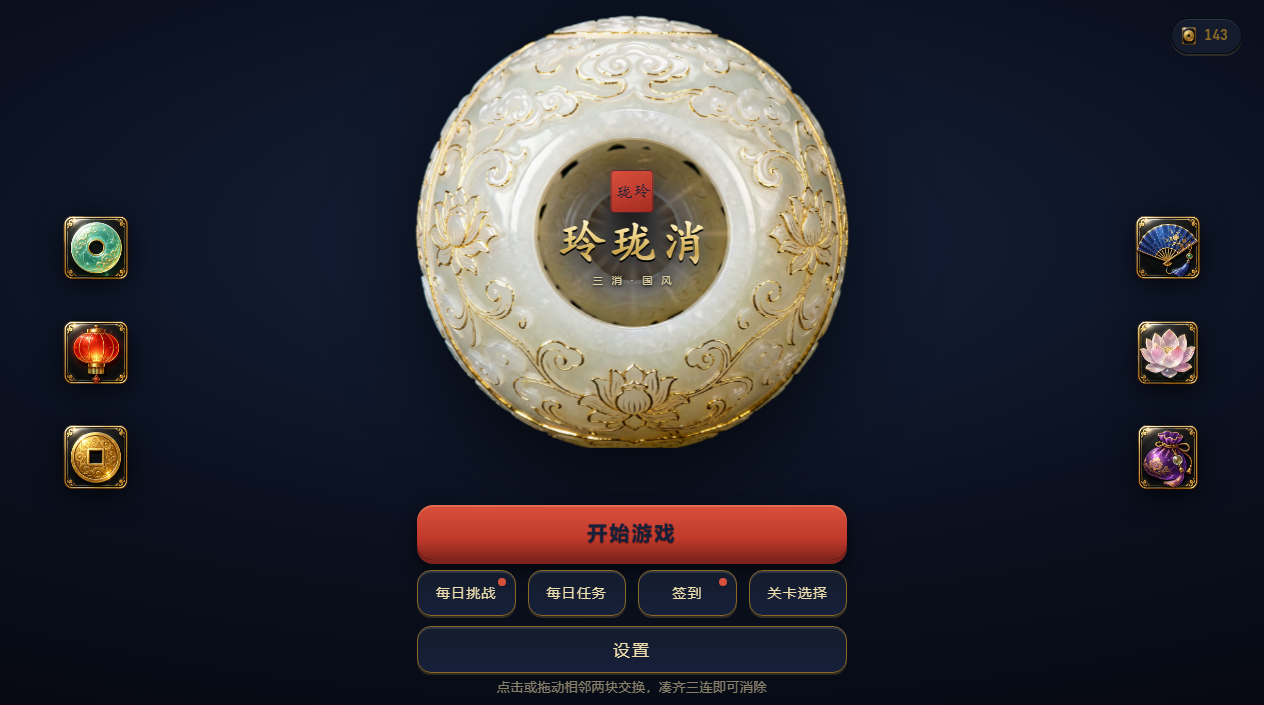
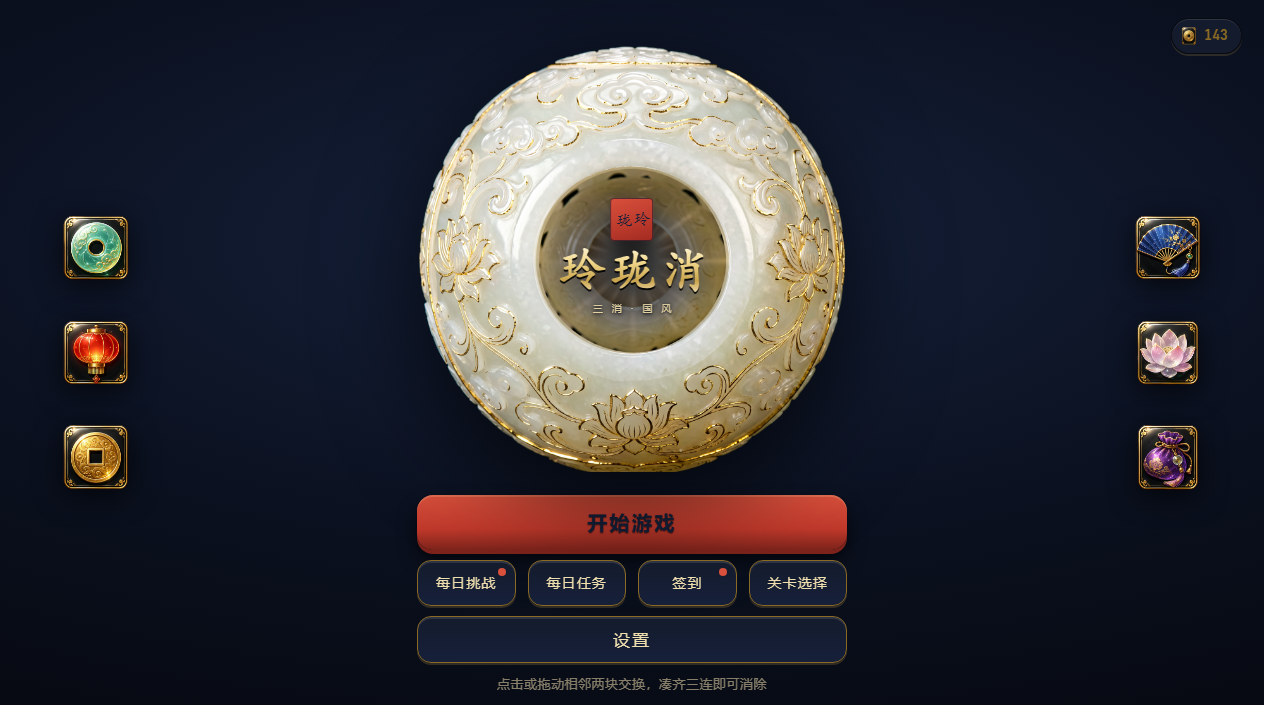
fix(title): 首页适配手机 —— 竖屏留白、横屏错位
用户报"首页并没有好好的适配手机尺寸"。抓了四种尺寸（390×844 / 360×640 / 844×390 / 1280×800）
逐个看，两个真问题：
- 竖屏：球贴满屏宽、球与按钮之间留一大段空白（两个都是绝对定位、各自贴边，中间自然空出来）
- 横屏 844×390：整个散了 —— 球跑到右边、按钮压在球上

改法：把"球 + 标题 + 按钮"收成一个 .title-stage，由 .overlay 的 flex **整组居中**，
组内再纵向排（标题定位改成贴在球的中心，而不是跟视口高度算偏移）。
- 窄屏/矮屏：球缩一档、间距收紧、两侧六宝收起
- 横屏手机：.title-stage 改成横向 —— 球在左、按钮在右（原来硬叠成上下必然压）

验证：四种尺寸重新截图逐个核对，selftest 208/208、browser_test 24/24（1280×800 / 430×800 / 844×390）。

Changed region(s): [[0.3085, 0.0, 0.6788, 0.9986]]

diff --git a/css/ui.css b/css/ui.css
@@ -332,31 +332,37 @@
   background: radial-gradient(120% 86% at 50% 34%, #16223C 0%, #0B1120 48%, #05070D 100%);
 }
 
-/* 玉球：整页的主视觉。尺寸跟着视口高度走，窄屏再压一档 */
+/* 玉球：整页的主视觉。尺寸跟着视口走，窄屏再压一档 */
 #title { --ball: min(500px, 62vh, 78vw); }
 
+/* 球 + 标题 + 按钮是一整组：由 .overlay 的 flex 居中整组，
+ * 组内再纵向排。分开贴边绝对定位的话，竖屏会在球和按钮之间空一大段，
+ * 横屏（比如 844×390）还会互相压。 */
+.title-stage {
+  position: relative;
+  display: flex;
+  flex-direction: column;
+  align-items: center;
+  gap: 3.2vh;
+  width: min(430px, 88vw);
+  animation: riseIn 0.5s ease-out;
+}
+.ball-wrap { position: relative; width: var(--ball); max-width: 100%; }
+
 .title-ball {
-  position: absolute;
-  left: 50%;
-  top: 1.5vh;
-  width: var(--ball);
+  display: block;
+  width: 100%;
   height: auto;
-  transform: translateX(-50%);
   pointer-events: none;
   filter: drop-shadow(0 24px 50px rgba(0, 0, 0, 0.75));
-  animation: ballIn 0.8s cubic-bezier(0.22, 0.9, 0.3, 1);
-}
-@keyframes ballIn {
-  from { opacity: 0; transform: translateX(-50%) scale(0.92); }
-  to { opacity: 1; transform: translateX(-50%) scale(1); }
 }
 
-/* 球心的圆窗：标题就写在里面（窗心 = 球的中心） */
+/* 球心的圆窗：标题就写在里面（圆心 = 球的中心） */
 .medal {
   position: absolute;
   left: 50%;
-  top: calc(1.5vh + var(--ball) * 0.5);
-  width: calc(var(--ball) * 0.46);
+  top: 50%;
+  width: 46%;
   transform: translate(-50%, -50%);
   display: flex;
   flex-direction: column;
@@ -428,13 +434,9 @@
 /* 金币：右上角浮标 */
 .title-coin { position: absolute; right: 22px; top: 18px; margin: 0; }
 
-/* 按钮：底部居中 */
+/* 按钮：跟着球、同一组里往下排 */
 .title-btns {
-  position: absolute;
-  left: 50%;
-  bottom: 4.6vh;
-  width: min(430px, 88vw);
-  transform: translateX(-50%);
+  width: 100%;
   display: flex;
   flex-direction: column;
   gap: 10px;
@@ -445,19 +447,29 @@
   position: absolute;
   left: 0;
   right: 0;
-  bottom: 1vh;
+  bottom: 1.4vh;
   text-align: center;
   font-size: 12.5px;
   letter-spacing: 0.08em;
   color: rgba(240, 223, 174, 0.55);
 }
 
-/* 窄屏：球缩一档、两侧六宝收起（否则会挤到按钮上） */
+/* 窄屏 / 矮屏：球缩一档、两侧六宝收起（否则会挤到球上） */
 @media (max-width: 760px), (max-height: 560px) {
-  #title { --ball: min(430px, 54vh, 82vw); }
+  #title { --ball: min(430px, 52vh, 86vw); }
   .t-side { display: none; }
-  .title-btns { width: min(360px, 92vw); bottom: 3.4vh; }
+  .title-stage { width: min(360px, 92vw); gap: 2.6vh; }
   .title-btns .btn-row .ghost { font-size: 12.5px; }
+  .title-btns .primary { min-height: 48px; font-size: 18px; }
+  .title-btns .ghost { min-height: 42px; }
+}
+
+/* 横屏手机（矮而宽）：球与按钮左右并排，别硬叠成上下 */
+@media (max-height: 560px) and (orientation: landscape) {
+  #title { --ball: min(320px, 76vh, 40vw); }
+  .title-stage { flex-direction: row; align-items: center; gap: 5vw; width: auto; }
+  .title-btns { width: min(340px, 46vw); }
+  .title-hint { display: none; }
 }
 
 /* 印章：方形、小圆角、内描金细线 */

diff --git a/index.html b/index.html
@@ -90,7 +90,6 @@
 
   <!-- 标题 -->
   <div id="title" class="overlay hidden">
-    <img class="title-ball" src="assets/img/title_ball.png" alt="">
     <img class="t-side tl1" src="assets/img/tile_jade.png" alt="">
     <img class="t-side tl2" src="assets/img/tile_lantern.png" alt="">
     <img class="t-side tl3" src="assets/img/tile_coin.png" alt="">
@@ -101,30 +100,37 @@
       <img src="assets/img/ui_coin.png" alt="">
       <b>0</b>
     </div>
-    <!-- 标题写在玉球的镂空圆窗里：玉球本身就是为名字做的框 -->
-    <div class="medal">
-      <div class="seal">玲珑</div>
-      <h1 class="game-title" data-i18n="title">玲珑消</h1>
-      <div class="title-sub" data-i18n="subtitle">三 消 · 国 风</div>
-    </div>
-    <div class="btn-col title-btns">
-      <button id="btnPlay" class="primary" data-i18n="play">开始游戏</button>
-      <div class="btn-row">
-        <button id="btnDaily" class="ghost">
-          <span data-i18n="dailyTitle">每日挑战</span>
-          <i class="dot hidden" id="dailyDot"></i>
-        </button>
-        <button id="btnQuests" class="ghost">
-          <span data-i18n="questTitle">每日任务</span>
-          <i class="dot hidden" id="questDot"></i>
-        </button>
-        <button id="btnCheckin" class="ghost">
-          <span data-i18n="checkinShort">签到</span>
-          <i class="dot hidden" id="checkinDot"></i>
-        </button>
-        <button id="btnLevels" class="ghost" data-i18n="levels">关卡选择</button>
+    <!-- 球 + 标题 + 按钮是一个整体（.title-stage），整组居中：
+         分开绝对定位的话，竖屏会在球和按钮之间留一大段空白，横屏还会互相压 -->
+    <div class="title-stage">
+      <div class="ball-wrap">
+        <img class="title-ball" src="assets/img/title_ball.png" alt="">
+        <!-- 标题写在玉球的镂空圆窗里：玉球本身就是为名字做的框 -->
+        <div class="medal">
+          <div class="seal">玲珑</div>
+          <h1 class="game-title" data-i18n="title">玲珑消</h1>
+          <div class="title-sub" data-i18n="subtitle">三 消 · 国 风</div>
+        </div>
       </div>
-      <button id="btnSet" class="ghost" data-i18n="settings">设置</button>
+      <div class="btn-col title-btns">
+        <button id="btnPlay" class="primary" data-i18n="play">开始游戏</button>
+        <div class="btn-row">
+          <button id="btnDaily" class="ghost">
+            <span data-i18n="dailyTitle">每日挑战</span>
+            <i class="dot hidden" id="dailyDot"></i>
+          </button>
+          <button id="btnQuests" class="ghost">
+            <span data-i18n="questTitle">每日任务</span>
+            <i class="dot hidden" id="questDot"></i>
+          </button>
+          <button id="btnCheckin" class="ghost">
+            <span data-i18n="checkinShort">签到</span>
+            <i class="dot hidden" id="checkinDot"></i>
+          </button>
+          <button id="btnLevels" class="ghost" data-i18n="levels">关卡选择</button>
+        </div>
+        <button id="btnSet" class="ghost" data-i18n="settings">设置</button>
+      </div>
     </div>
     <div class="title-hint" data-i18n="titleHint">点击或拖动相邻两块交换，凑齐三连即可消除</div>
   </div>
